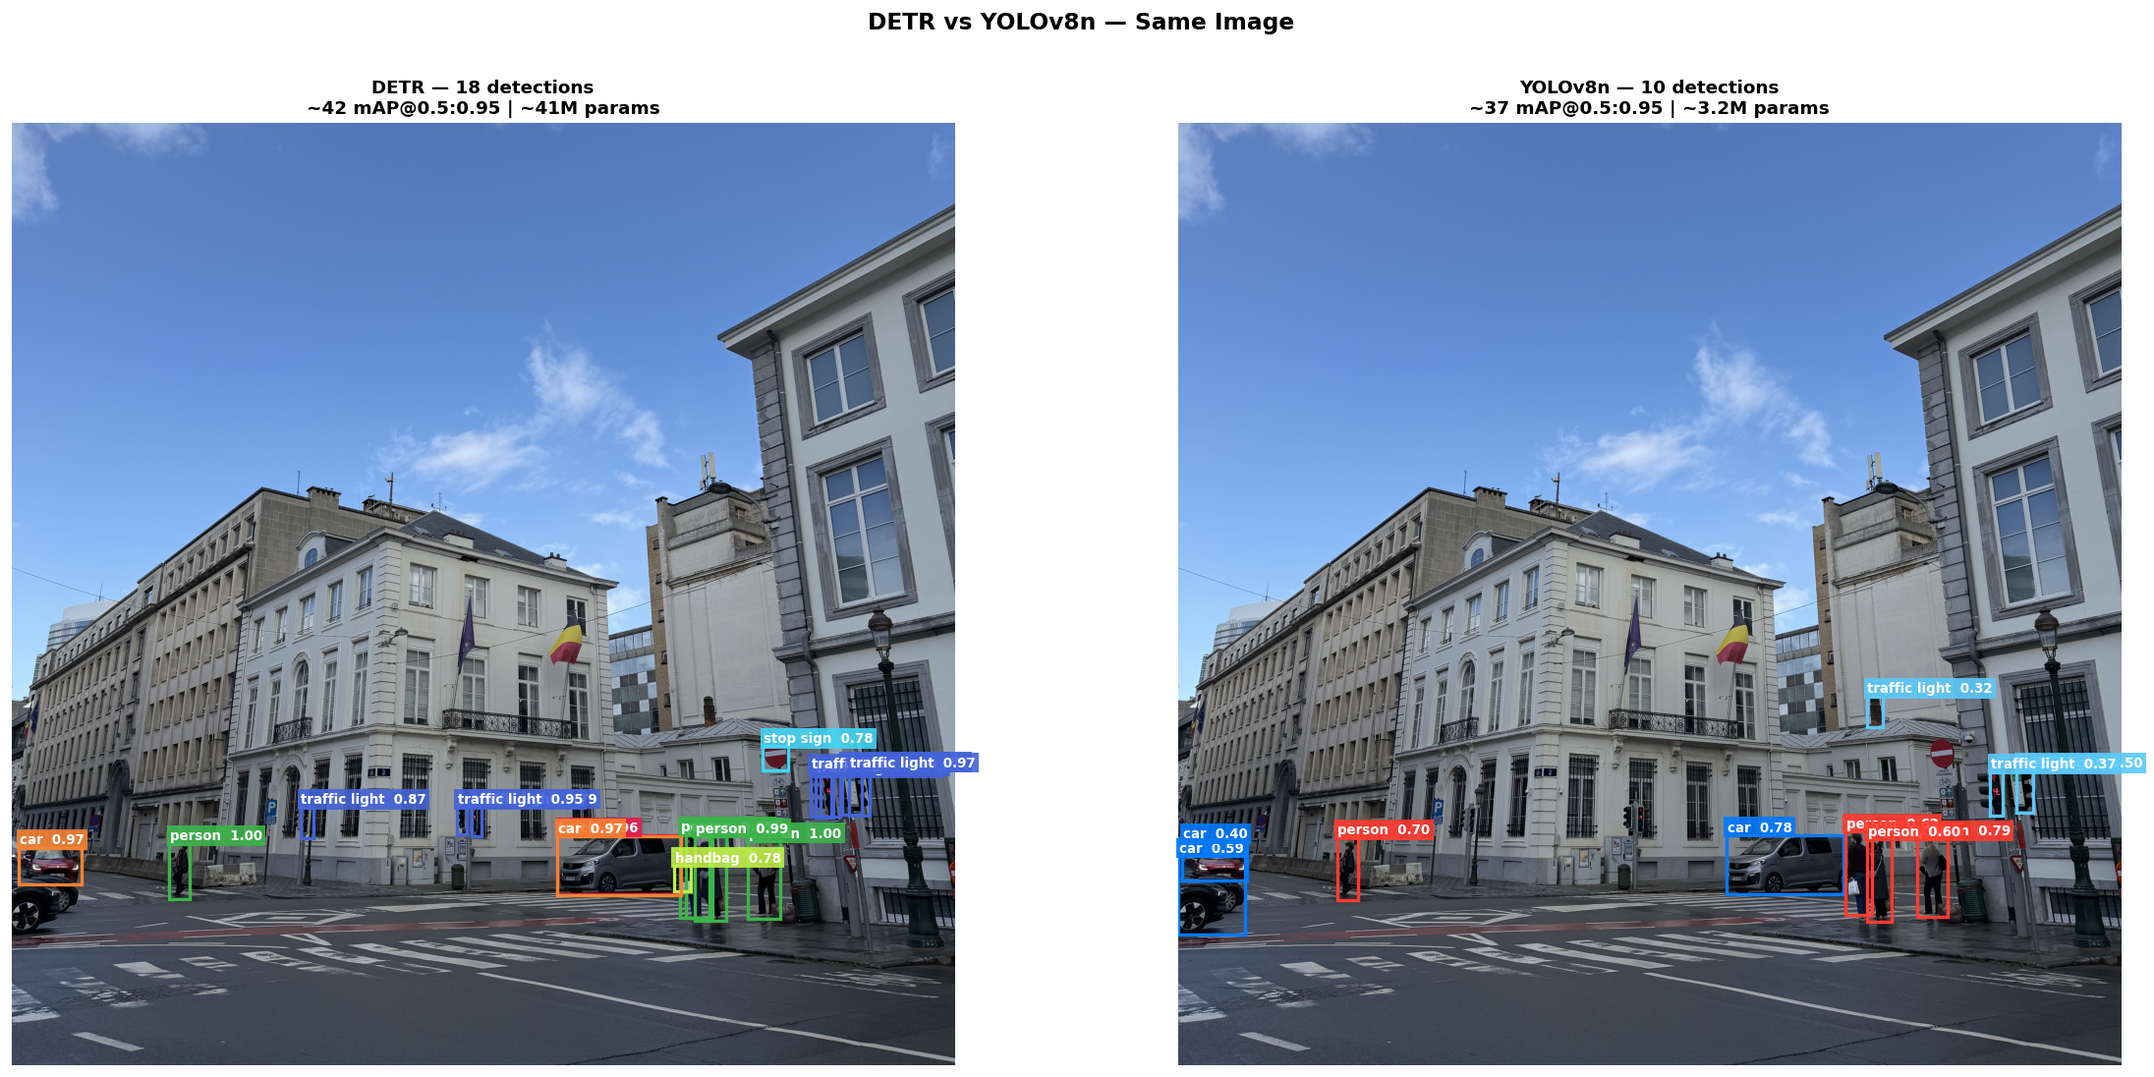
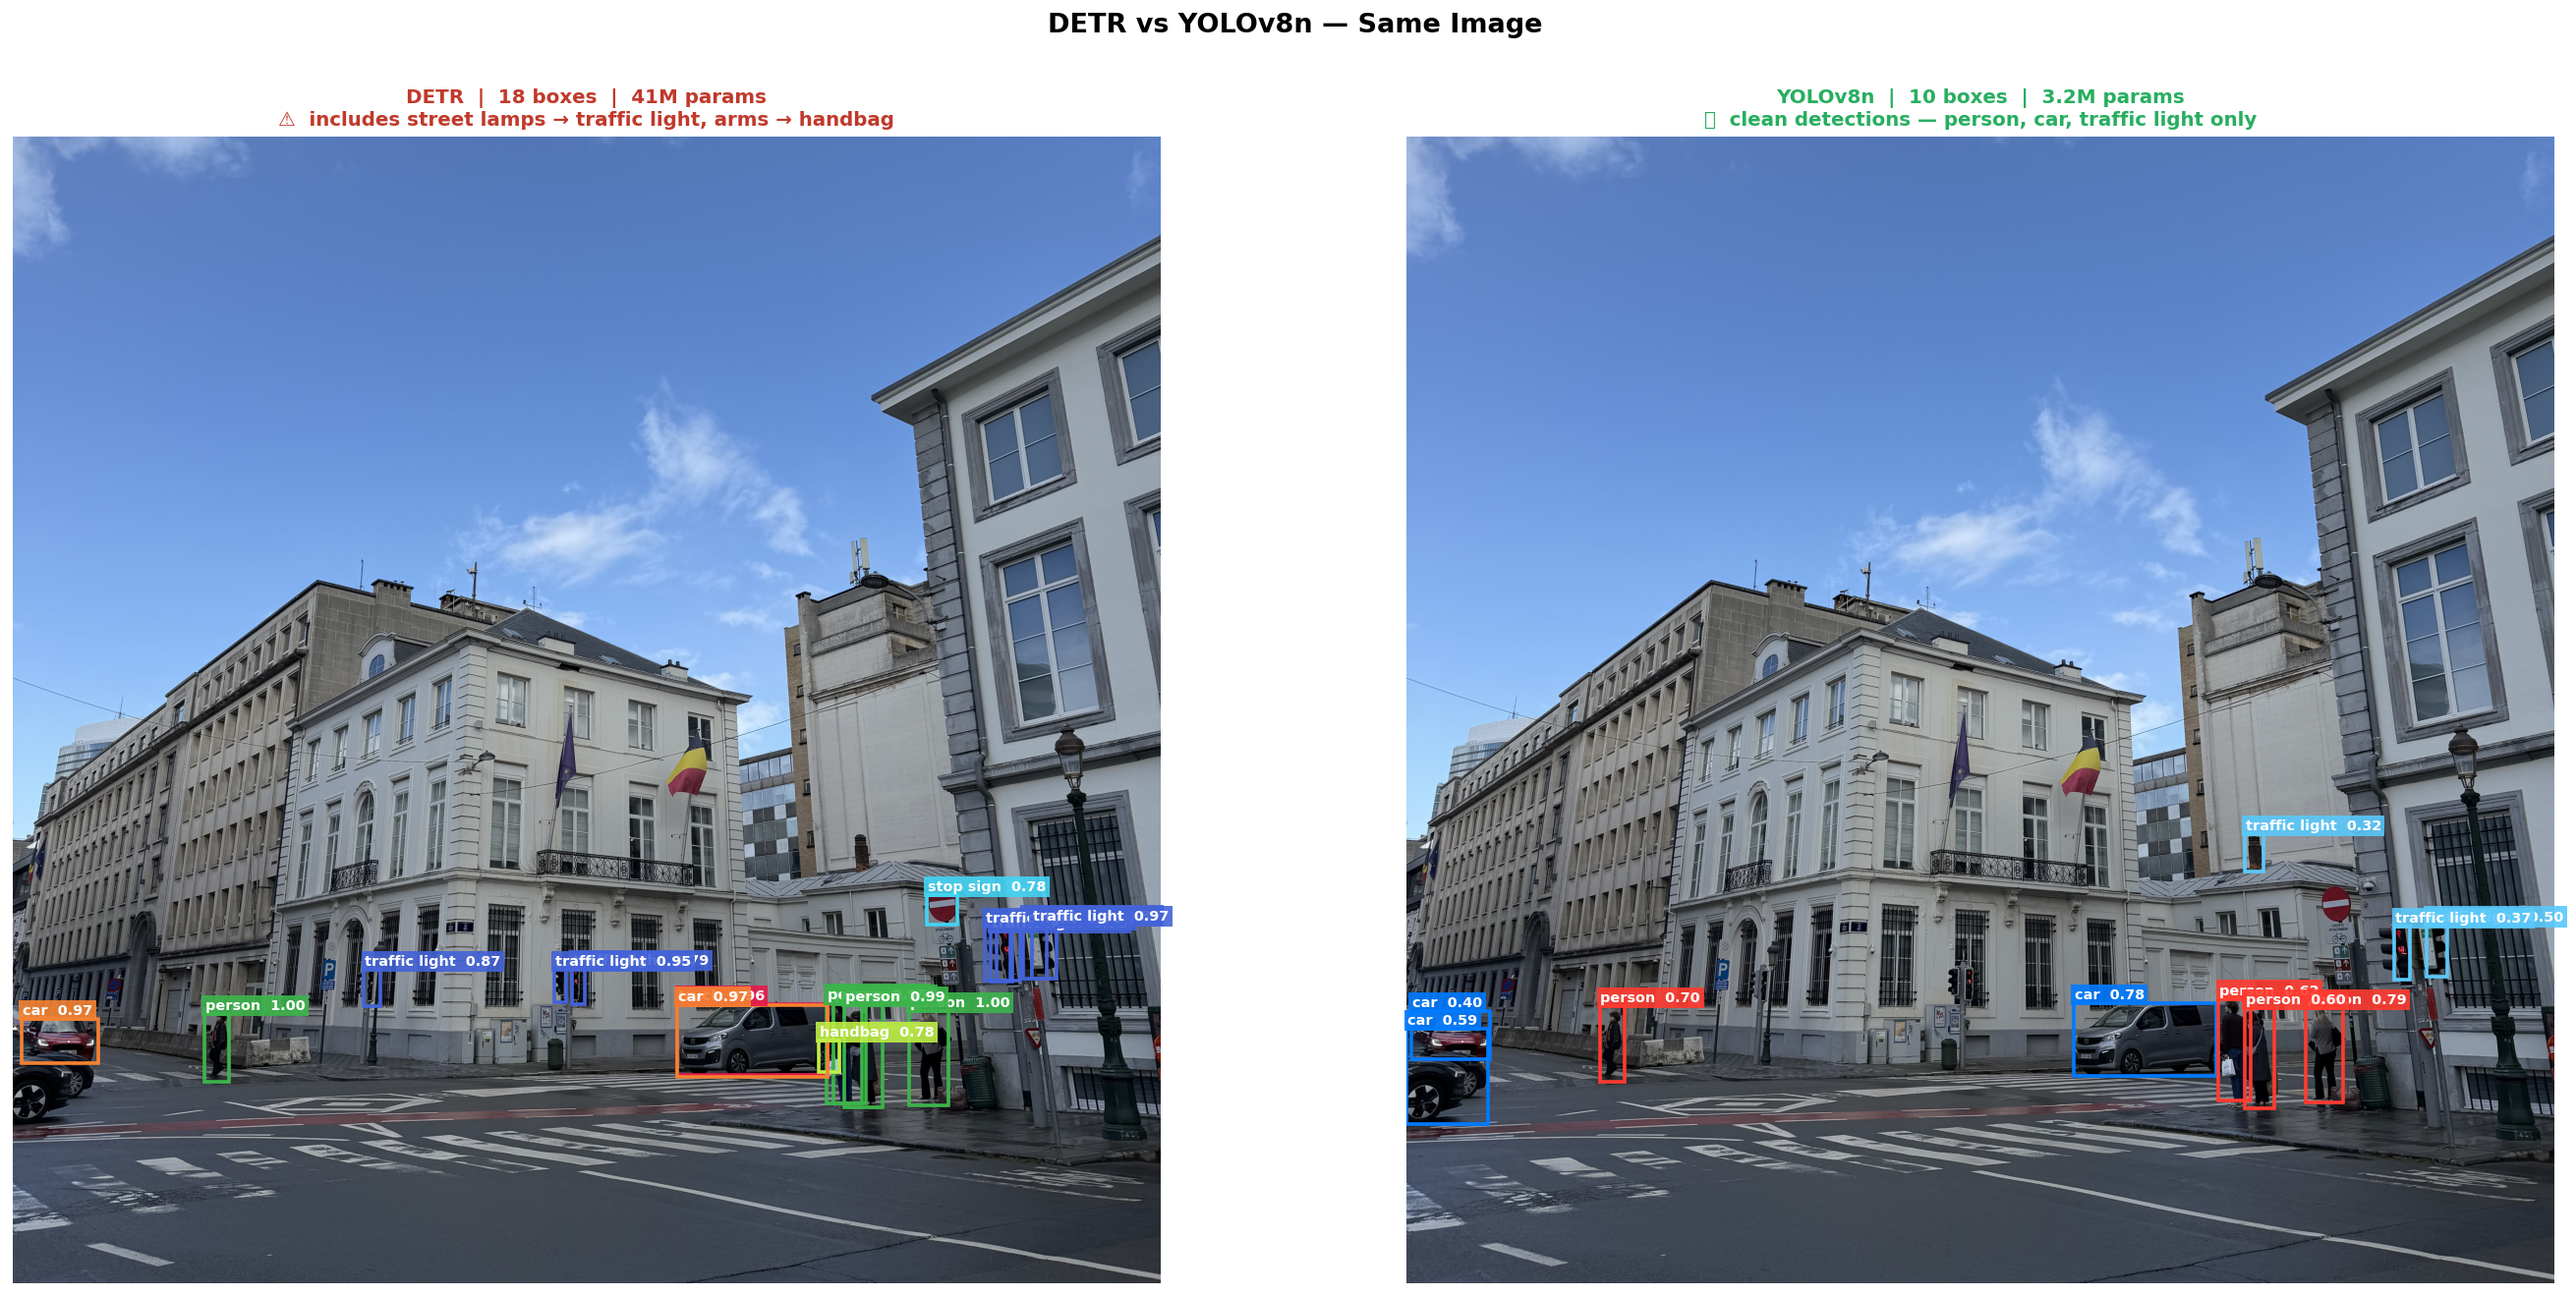
Fix DETR vs YOLO comparison image and README explanations

diff --git a/README.md b/README.md
@@ -81,11 +81,13 @@ YOLOv8 divides the image into a grid and predicts boxes at each cell using an an
 
 ### DETR vs YOLOv8
 
-Same image, both models:
+Same image, both models. The panel titles show the key difference:
 
 <img src="assets/detr_vs_yolo.png"/>
 
-> **More detections ≠ better.** DETR finds more boxes on this scene but many are false positives — street lamps detected as *traffic light*, arms detected as *handbag*. YOLOv8 produces fewer, cleaner detections. Combined with 13× fewer parameters and clean CoreML export, YOLOv8 is the right choice for deployment. DETR is studied here for its architecture — the first end-to-end detector with no anchors and no NMS.
+DETR produces 18 boxes — but 9 of them are street lamps misclassified as *traffic light* and arms misclassified as *handbag*. YOLOv8 produces 10 cleaner detections with no such false positives on this scene. Both models have the same underlying limitation — they can only predict the 80 COCO classes — but YOLOv8's detection head produces fewer spurious matches on objects that loosely resemble a known class.
+
+Combined with 13× fewer parameters and a clean CoreML export, YOLOv8 is used for all practical inference. DETR is studied for its architecture — the first end-to-end detector with no anchors and no NMS.
 
 ---
 
@@ -123,11 +125,11 @@ YOLOv8n exported to CoreML (6.5 MB). Benchmarked across compute unit configurati
 
 `ALL` routes to the Neural Engine automatically — ~4× faster than CPU-only. This is the config used in the iPhone app.
 
-**End-to-end demo** — CoreML model parsing `coordinates` and `confidence` outputs, drawing bounding boxes with class labels:
+**End-to-end CoreML inference** — the exported model running through the full on-device pipeline: CoreML loads the `.mlpackage`, runs inference, and returns `coordinates` (N×4 normalized boxes) and `confidence` (N×80 class scores). This confirms the export is correct and the output format parses as expected before building the iPhone app.
 
 <img src="assets/yolo_coreml_demo.png"/>
 
-> **Note on misclassification:** Bollards are detected as *fire hydrant* and street lamps as *traffic light* — COCO has no class for either. The model maps unfamiliar objects to the nearest class it knows. Expected behavior when real-world objects fall outside the 80 training categories.
+> **Note:** The street lamp on the right is detected as *traffic light* — COCO has no street lamp class, so the model maps it to the nearest known category. This is expected when real-world objects fall outside the 80 training classes.
 
 ---
 
